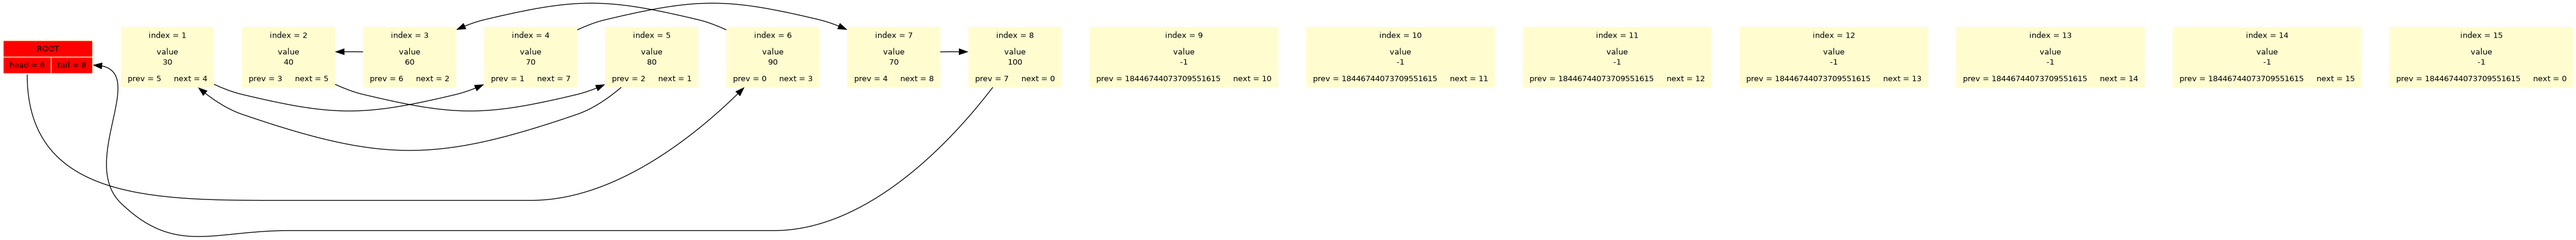
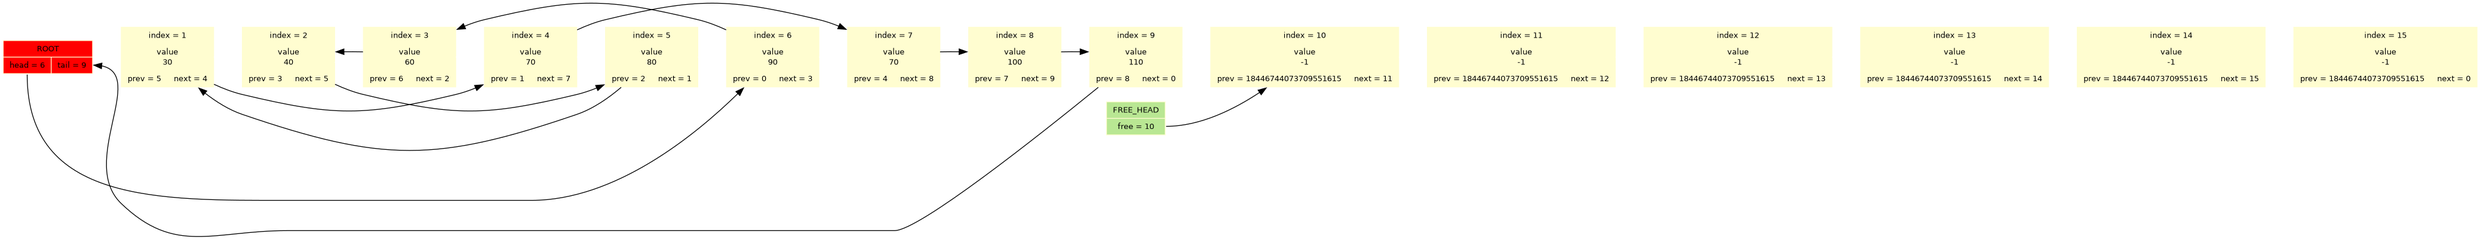
DSL implemented

diff --git a/linkedlist.cpp b/linkedlist.cpp
@@ -1,3 +1,7 @@
+#include "dsl.h"
+
+#include "graphparams.h"
+
 #include "linkedlist.h"
 
 // TD: linearization
@@ -19,23 +23,23 @@ ErrorCode CreateList(List* list)
     // DSL: add_to_free
     for (size_t i = 0; i < DEFAULT_LIST_CAPACITY; i++)
     {
-        list->ptr[i].value = POISON;
+        VALUE(i) = POISON;
     }
 
     for (size_t i = 1; i < DEFAULT_LIST_CAPACITY - 1; i++)
     {
-        list->ptr[i].next = i + 1;
+        NEXT(i) = i + 1;
     }
 
     for (size_t i = 1; i < DEFAULT_LIST_CAPACITY; i++)
     {
-        list->ptr[i].prev = FREE_ELEM;
+        PREV(i) = FREE_ELEM;
     }
 
     list->freeHead = 1;
 
-    list->head = list->ptr[0].next;
-    list->tail = list->ptr[0].prev; // TD: sensiel
+    list->head = NEXT(0);
+    list->tail = PREV(0); // TD: sensiel
 
     return OK;
 }
@@ -69,15 +73,15 @@ ErrorCode InsertAfter(List* list, size_t index, Elem_t value)
     // TD: DSL - CONNECT_NODES(node1, node2)
     size_t insertIndex = list->freeHead; 
 
-    list->freeHead = list->ptr[insertIndex].next; 
+    list->freeHead     = NEXT(insertIndex);
 
-    list->ptr[insertIndex].value = value;
+    VALUE(insertIndex) = value;
 
-    list->ptr[insertIndex].prev = index;
-    list->ptr[insertIndex].next = list->ptr[index].next; // NEXT(index)
+    PREV(insertIndex)  = index;
+    NEXT(insertIndex)  = NEXT(index); // NEXT(index)
 
-    list->ptr[list->ptr[index].next].prev = insertIndex;
-    list->ptr[index].next = insertIndex;
+    PREV(NEXT(index))  = insertIndex;
+    NEXT(index)        = insertIndex;
 
     CHECK_VERIFICATION(listVerify(list));
 
@@ -88,7 +92,7 @@ ErrorCode InsertAfter(List* list, size_t index, Elem_t value)
 
 ErrorCode InsertBefore(List* list, size_t index, Elem_t value)
 {
-    return InsertAfter(list, list->ptr[index].prev, value);
+    return InsertAfter(list, PREV(index), value);
 }
 
 ErrorCode PushFront(List* list, Elem_t value)
@@ -105,25 +109,25 @@ Elem_t Pop(List* list, size_t index)
 {
     AssertSoft(index < list->size, INDEX_OUT_OF_RANGE);
 
-    Elem_t value   = list->ptr[index].value;
-    size_t delPrev = list->ptr[index].prev;
-    size_t delNext = list->ptr[index].next;
+    Elem_t value   = VALUE(index);
+    size_t delPrev = PREV(index);
+    size_t delNext = NEXT(index);
 
     size_t curFree = list->freeHead;
 
-    list->ptr[curFree].next = index;
+    NEXT(curFree) = index;
 
     list->freeHead = index;
 
-    list->ptr[index].value = POISON;
+    VALUE(index) = POISON;
 
-    list->ptr[index].next = curFree;
+    NEXT(index) = curFree;
 
-    list->ptr[index].prev = FREE_ELEM;
+    PREV(index) = FREE_ELEM;
 
-    list->ptr[delPrev].next = delNext;
+    NEXT(delPrev) = delNext;
 
-    list->ptr[delNext].prev = delPrev;
+    PREV(delNext) = delPrev;
 
     list->size--;
 
@@ -132,26 +136,28 @@ Elem_t Pop(List* list, size_t index)
 
 ErrorCode reallocList(List* list)
 {
-    SafeRealloc(tempPtr, ListElem_t, list->ptr, list->capacity * 2 * sizeof(ListElem_t));
+    SafeRealloc(tempPtr, ListElem_t, list->ptr, list->capacity * MULTIPLIER * sizeof(ListElem_t));
+
+    size_t capacityExtended = list->capacity * MULTIPLIER;
 
     list->ptr = tempPtr;
 
-    for (size_t i = list->capacity; i < list->capacity * 2 - 1; i++)
+    for (size_t i = list->capacity; i < capacityExtended - 1; i++)
     {
-        list->ptr[i].next = i + 1;
+        NEXT(i) = i + 1;
     }
 
-    for (size_t i = list->capacity; i < list->capacity * 2; i++)
+    for (size_t i = list->capacity; i < capacityExtended; i++)
     {
-        list->ptr[i].value = POISON;
-        list->ptr[i].prev = FREE_ELEM;
+        VALUE(i) = POISON;
+        PREV(i) = FREE_ELEM;
     }
     
-    list->ptr[list->capacity * 2 - 1].next = 0; // TD: harcode 
+    NEXT(capacityExtended - 1) = 0; 
 
     list->freeHead = list->capacity;
 
-    list->capacity = list->capacity * 2;
+    list->capacity = capacityExtended;
 
     return OK;
 }
@@ -162,7 +168,7 @@ ErrorCode PrintList(List* list)
 
     for (size_t i = 0; i < list->capacity; i++)
     {
-        printf("[%lu] -> value: %d, next: %lu, prev %lu\n", i, list->ptr[i].value, list->ptr[i].next, list->ptr[i].prev);
+        printf("[%lu] -> value: %d, next: %lu, prev %lu\n", i, VALUE(i), NEXT(i), PREV(i));
     }
 
     printf("\nin order:\n");
@@ -171,8 +177,9 @@ ErrorCode PrintList(List* list)
 
     for (size_t i = 0; i < list->size; i++)
     {
-        printf("[%lu] -> value: %d, next: %lu, prev %lu\n", curIndex, list->ptr[curIndex].value, list->ptr[curIndex].next, list->ptr[curIndex].prev);
-        curIndex = list->ptr[curIndex].next;
+        printf("[%lu] -> value: %d, next: %lu, prev %lu\n", curIndex, VALUE(curIndex), NEXT(curIndex), PREV(curIndex));
+
+        curIndex = NEXT(curIndex);
     }
 
     return OK;
@@ -200,45 +207,30 @@ ErrorCode listVerify(List* list)
 
 #undef CHECK_ERROR
 
-#define GRAPH_DUMP_FILENAME "GraphDump.dot"
-
-#define FONT_SIZE "10"
-
-#define FONT_NAME "helvetica"
-
-#define NODE_FRAME_COLOR "\"#fffdd0\""
-
-#define BACKGROUND_COLOR "\"#ffffff\""
-
-#define FREE_HEAD_COLOR "\"#b9e793\""
-
-#define NODE_COLOR "\"#fffdd0\""
-
-#define ROOT_COLOR "\"#ff0000\""
-
 #define dumpGraph(filename, ...) fprintf(filename, __VA_ARGS__)
 
 ErrorCode DumpListGraph(List* list)
 {
     myOpen(GRAPH_DUMP_FILENAME, "w", graphFile);
 
-    dumpGraph(graphFile,
-    "digraph\n"
-    "{\n"
-    "rankdir = LR;\n"
-    "node [shape = record, color = " NODE_FRAME_COLOR ", fontname = " FONT_NAME ", fontsize = " FONT_SIZE "];\n"
-    "bgcolor = " BACKGROUND_COLOR ";\n"
-    "ROOT[style = \"filled\", fillcolor = " ROOT_COLOR ", "
-    "label = \"ROOT|{<head>head = %zu|<tail>tail = %zu}\"];\n",
-    list->ptr[0].next, list->ptr[0].prev
+    dumpGraph(graphFile, "  digraph\n"
+                         "  {\n"
+                         "  rankdir = LR;\n"
+                         "  node [shape = record, color = " NODE_FRAME_COLOR ", fontname = " FONT_NAME ", fontsize = " FONT_SIZE "];\n"
+                         "  bgcolor = " BACKGROUND_COLOR ";\n"
+                         "  ROOT[style = \"filled\", fillcolor = " ROOT_COLOR ", "
+                         "  label = \"ROOT|{<head>head = %zu|<tail>tail = %zu}\"];\n"
+                         "  FREE_HEAD[style = \"filled\", fillcolor = " FREE_HEAD_COLOR ", "
+                         "  label = \"FREE_HEAD|<free>free = %zu\"];\n",
+                            NEXT(0), PREV(0), list->freeHead
     );
 
     for (size_t i = 1; i < list->capacity; i++)
     {
         dumpGraph(graphFile,
-        "NODE_%zu[style = \"filled\", fillcolor = " NODE_COLOR ", "
-        "label = \"index = %lu|value\\n%d|{prev = %lu|next = %lu}\"];\n",
-        i, i, list->ptr[i].value, list->ptr[i].prev, list->ptr[i].next
+                            "  NODE_%zu[style = \"filled\", fillcolor = " NODE_COLOR ", "
+                            "  label = \"index = %lu|value\\n%d|{prev = %lu|next = %lu}\"];\n",
+                            i, i, VALUE(i), PREV(i), NEXT(i)
         );
     }
 
@@ -253,25 +245,29 @@ ErrorCode DumpListGraph(List* list)
 
     dumpGraph(graphFile, "ROOT:head");
 
-    size_t nodePointer = list->ptr[0].next;
+    size_t nodePointer = NEXT(0);
 
     for (size_t i = 1; i < list->size; i++)
     {
         dumpGraph(graphFile, "->NODE_%zu", nodePointer);
 
-        nodePointer = list->ptr[nodePointer].next;
+        nodePointer = NEXT(nodePointer);
     }
 
-    dumpGraph(graphFile, "->ROOT:tail");
-    
-    dumpGraph(graphFile, ";\n"
-    "}\n"
+    dumpGraph(graphFile, "->ROOT:tail;\n");
+
+    dumpGraph(graphFile, "FREE_HEAD:free->NODE_%zu;\n", 
+                            list->freeHead
     );
+    
+    dumpGraph(graphFile, "  }\n");
 
     myClose(graphFile);
 
     return OK;
 }
+
+#undef dumpGraph
 
 
 

diff --git a/graphparams.h b/graphparams.h
@@ -1,0 +1,15 @@
+#define GRAPH_DUMP_FILENAME "GraphDump.dot"
+
+#define FONT_SIZE "10"
+
+#define FONT_NAME "helvetica"
+
+#define NODE_FRAME_COLOR "\"#fffdd0\""
+
+#define BACKGROUND_COLOR "\"#ffffff\""
+
+#define FREE_HEAD_COLOR "\"#b9e793\""
+
+#define NODE_COLOR "\"#fffdd0\""
+
+#define ROOT_COLOR "\"#ff0000\""

diff --git a/main.cpp b/main.cpp
@@ -17,6 +17,7 @@ int main(void)
     PushBack(&list, 70);
     PushBack(&list, 100);
     PrintList(&list);
+    PushBack(&list, 110);
     DumpListGraph(&list);
     
     DestroyList(&list);

diff --git a/linkedlist.h b/linkedlist.h
@@ -9,6 +9,8 @@ typedef int Elem_t;
  
 const size_t FREE_ELEM = -1;
 
+const int MULTIPLIER = 2;
+
 const Elem_t POISON = __INT64_MAX__;
 
 const int DEFAULT_LIST_CAPACITY = 8;

diff --git a/dsl.h b/dsl.h
@@ -1,0 +1,5 @@
+#define PREV(index) list->ptr[index].next
+
+#define NEXT(index) list->ptr[index].prev
+
+#define VALUE(index) list->ptr[index].value
